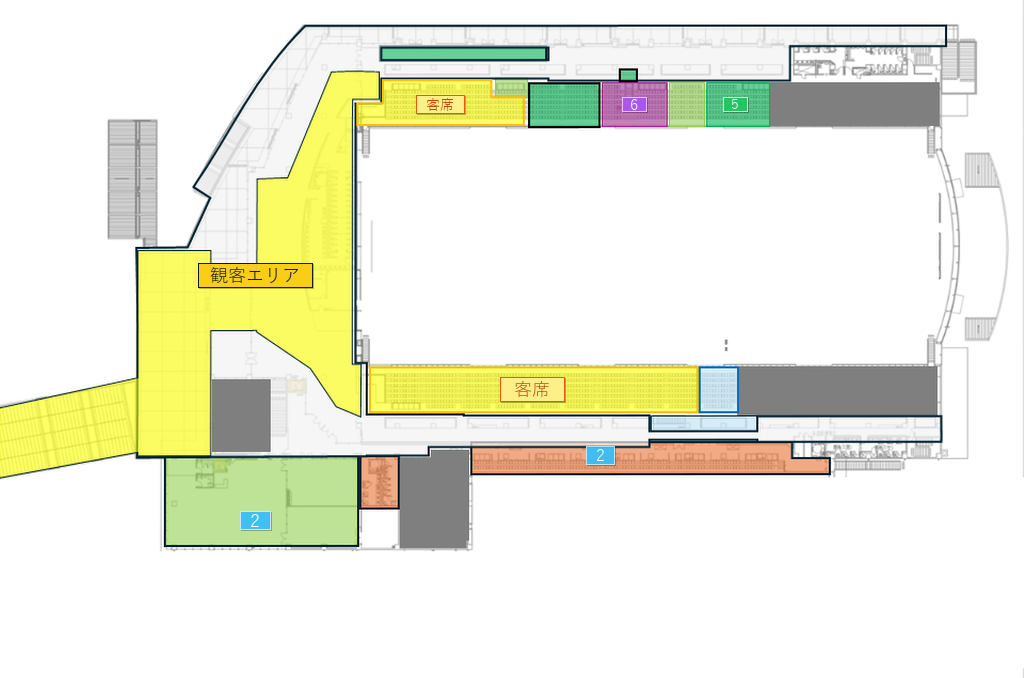
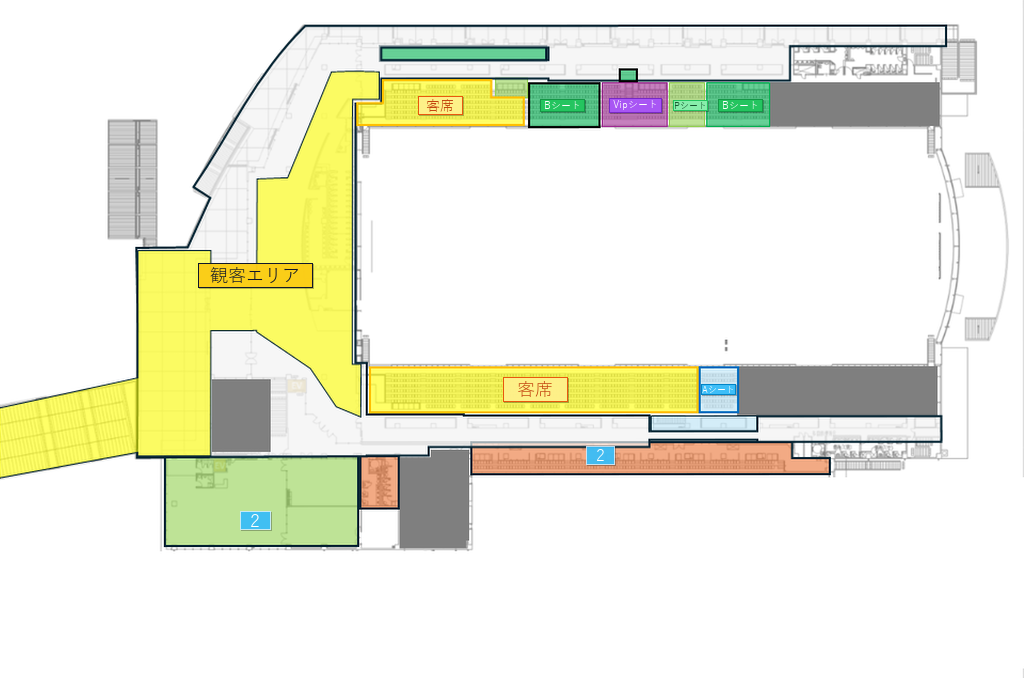
Add files via upload

diff --git a/index.html b/index.html
@@ -4,7 +4,7 @@
   <meta charset="UTF-8">
   <meta name="viewport" content="width=device-width, initial-scale=1.0, maximum-scale=1.0, user-scalable=no">
   <title>オフライン多機能会場マップ (ACP・部屋・ゾーン連動)</title>
-  <link rel="stylesheet" href="css/styles.css?v=30.0">
+  <link rel="stylesheet" href="css/styles.css?v=31.0">
   <style>
     /* 多機能オフライン会場マップ - 完全統合レスポンシブスタイル */
     :root {
@@ -879,7 +879,7 @@
       <!-- 2階マップ (通常図面 ＋ ゾーン色分け図面オーバーレイ) -->
       <div id="map-2f" class="floor-map">
         <img src="assets/floor2.png" alt="2F Floor Map" class="bg-svg bg-normal">
-        <img src="assets/floor2-zone.png?v=30.0" alt="2F Zone Map" class="bg-svg bg-zone">
+        <img src="assets/floor2-zone.png?v=31.0" alt="2F Zone Map" class="bg-svg bg-zone">
       </div>
 
     </div>
@@ -1102,8 +1102,8 @@
   </div>
 
   <!-- スクリプト読み込み (重要: data.js -> map-engine.js -> app.js) -->
-  <script src="js/data.js?v=30.0"></script>
-  <script src="js/map-engine.js?v=30.0"></script>
-  <script src="js/app.js?v=30.0"></script>
+  <script src="js/data.js?v=31.0"></script>
+  <script src="js/map-engine.js?v=31.0"></script>
+  <script src="js/app.js?v=31.0"></script>
 </body>
 </html>
